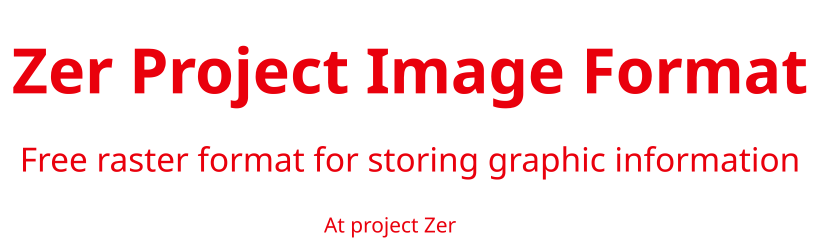
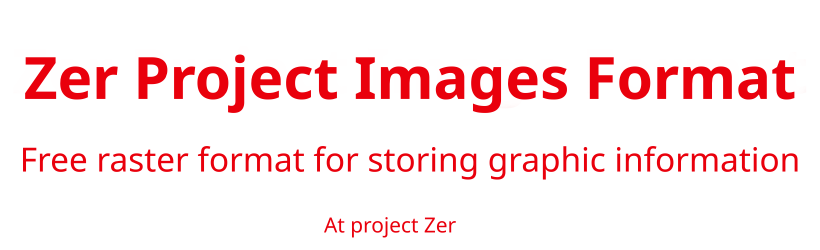
changed README.md

Changed region(s): [[0.0, 0.168, 1.0, 0.448]]

diff --git a/README.md b/README.md
@@ -92,11 +92,23 @@ wNNNNNhNNNNNtN�NNNNN����NN�NN�NNNNNN
 
 <br>
 
+# Embedding in Your Projects  
+
+If you are interested in the **ZPIF** format and want to use it in your projects, you can find implementations for rendering **ZPIF** images in various programming languages in the `render/` directory.  
+
+If an implementation for your preferred language is not available, you can create one yourself and submit it to us. If it meets the quality standards, we will publish your version.  
+
+We greatly appreciate your contribution to the development of the **Zer Projects Image Format**!
+
+<br>
+<br>
+<br>
+
 **Русский (original)**
 
 # Описание формата файлов ZPIF
 
-ZPIF (Zer Project Image Format) — это свободный растровый формат для хранения графической информации.
+ZPIF (Zer Project Images Format) — это свободный растровый формат для хранения графической информации.
 
 ## Структура файла
 
@@ -165,9 +177,12 @@ ZPIF (Zer Project Image Format) — это свободный растровый
 ### Пример 1 (бинарное представление в hex)
 
 ```
-89 5A 50 49 46 0A 77 00 00 00 02 00 
-68 00 00 00 02 00 74 07 E9 02 01 0C 
-00 00 FF FF FF FF 00 04 FF 00 00 FF 
+89 5A 50 49 46 0A
+77 00 00 00 02 00 
+68 00 00 00 02 00 
+74 07 E9 02 01 0C 
+00 00 FF FF FF FF
+00 04 FF 00 00 FF 
 00 00 00 00 00 00
 ```
 
@@ -181,3 +196,13 @@ wNNNNNhNNNNNtN�NNNNN����NN�NN�NNNNNN
 ## Примечания
 
 1. После чанка `00 00 00 00 00 00` (конца файла) могут быть записаны любые данные, но этого следует избегать.
+
+<br>
+ 
+# Встраивание в свои проекты  
+
+Если вас заинтересовал формат **ZPIF** и вы хотите использовать его в своих проектах, в директории `render/` вы найдете реализации рендеринга изображений **ZPIF** на различных языках программирования.  
+
+Если нужной вам реализации нет, вы можете создать её самостоятельно и отправить нам. Если всё будет выполнено качественно, мы опубликуем вашу версию.  
+
+Мы будем очень благодарны за ваш вклад в развитие **Zer Projects Image Format**!  
